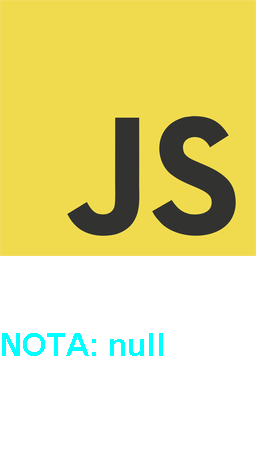
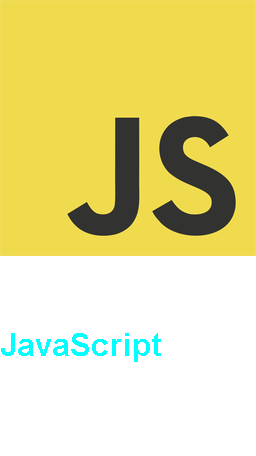
aula 4

Changed region(s): [[0.0, 0.7061, 0.6562, 0.7982]]

diff --git a/src/App.java b/src/App.java
@@ -26,14 +26,14 @@ public class App {
             String titulo = conteudo.getTitulo();
             String urlImagem = conteudo.getUrlImagem();
             
-            String notaFilme = conteudo.getImdbRating();
-            String textoFigurinha = "NOTA: " + notaFilme;
+            //String notaFilme = conteudo.getImdbRating();
+            //String textoFigurinha = "NOTA: " + notaFilme;
             //String textoFigurinha = "TOPZERA";
 
             System.out.println(titulo);
 
             InputStream inputStream = new URL(urlImagem).openStream();
-            stickerGenerator.Generate(inputStream, textoFigurinha, titulo); // Gera a figurinha com a imagem do filme
+            stickerGenerator.Generate(inputStream, titulo, titulo); // Gera a figurinha com a imagem do filme
                                     
             System.out.println();
         }

diff --git a/src/API_EXTRATOR.java b/src/API_EXTRATOR.java
@@ -1,7 +1,7 @@
 public enum API_EXTRATOR {
     IMDB("https://api.mocki.io/v2/549a5d8b", new IMDBContentExtractor()),
     NASA("https://api.nasa.gov/planetary/apod?api_key=DEMO_KEY&start_date=2022-06-12&end_date=2022-06-14", new NASAContentExtractor()),
-    LINGUAGENS("http://localhost:8080/linguagens", new IMDBContentExtractor());
+    LINGUAGENS("http://localhost:8080/languages", new LinguagensContentExtractor());
 
     private String url;
     private ContentExtractor extrator;
